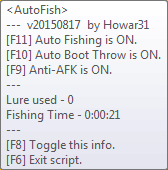
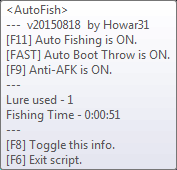
Fix backpack close on re-cast.  Update README.md to add changelog.  Update preview image.

diff --git a/README.md b/README.md
@@ -1,9 +1,35 @@
-> _[中文說明在文章後面](https://github.com/howar31/Trove-AHK-AutoFish#trove-ahk-autofish-1)_
+> **[中文說明請見後半段](https://github.com/howar31/Trove-AHK-AutoFish#trove-ahk-autofish-1)**
 
 # Trove-AHK-AutoFish
 This is an AutoHotKey script for auto fishing in Trove.
 
 ![previewimg](https://raw.githubusercontent.com/howar31/Trove-AHK-AutoFish/master/preview.png "Trove-AHK-AutoFish Preview Screenshot")
+
+## Changelog
+You may check the [commit history](https://github.com/howar31/Trove-AHK-AutoFish/commits/master) for full changelog on this GitHub repo.
+
+Here are the tags used below:
+* **[New]** The new feature added in the version.
+* **[Update]** Script optimization or minor change 感謝 ve the script but not changing the main function.
+* **[Fix]** Important fix for bugs that affect main function.  Highly recommand update to this version.
+
+### Latest Change
+**v20150818**
+* [New] Long press F10 for FastABT Mode.  _(Thanks to [KylinWu](https://github.com/KylinWu))_
+* [New] Configurable settings for FastABT long press delay (The default is to press 0.5s to active FastABT).  (FastABTDelay)
+* [New] Update Info Tooltip for FastABT Mode.
+
+### Recent Change
+**v20150817**
+> * [Update] Optimize ABT to lower the CPU usage.
+
+**v20150816**
+> * [Update] Optimize pole check.  _(Thanks to [KylinWu](https://github.com/KylinWu))_
+
+**v20150815**
+> * [Update] Optimize Tooltip refreshing.
+
+Older changelog please visit [commit history](https://github.com/howar31/Trove-AHK-AutoFish/commits/master).
 
 ## Feature
 * Using **Memory Address** to detect biting.
@@ -108,6 +134,7 @@ Here are the default hotkey settings:
 
 * **F11** - Toggle Auto Fish on or off
 * **F10** - Toggle Auto Boot Throw on or off
+ * **Hold F10** to activate Fast Auto Boot Throw which will temporarily throw boot at high speed.
 * **F9** - Toggle Anti-AFK on or off
 * **F8** - Toggle Info tooltips on or off
 * **F6** - Terminate and exit the whole script
@@ -121,7 +148,33 @@ All hotkeys info are also displayed in tooltip.
 
 ![previewimg](https://raw.githubusercontent.com/howar31/Trove-AHK-AutoFish/master/preview.png "Trove-AHK-AutoFish Preview Screenshot")
 
-## 特色
+## 更新紀錄
+請參考 GitHub repo 上的 [commit 紀錄](https://github.com/howar31/Trove-AHK-AutoFish/commits/master) 內有完整的更新紀錄。
+
+以下用到的標籤說明:
+* **[新增]** 版本中新增加的全新功能。
+* **[更新]** 腳本優化或是微幅調整，改進腳本整體效能但不影響主要功能。
+* **[修正]** 重要的功能修正，強烈建議更新到這個版本。
+
+### 最新更新
+**v20150818**
+* [新增] 長按 F10 啟動高速丟鞋模式。  _(感謝 [KylinWu](https://github.com/KylinWu))_
+* [新增] 可自訂的高速丟鞋長按延遲設定 (預設長按0.5秒啟動)。  (FastABTDelay)
+* [新增] 更新資訊浮動視窗的高速丟鞋相關訊息。
+
+### 近期更新
+**v20150817**
+> * [更新] 優化自動丟鞋以降低 CPU 使用率。
+
+**v20150816**
+> * [更新] 優化魚餌上鉤檢查機制。  _(感謝 [KylinWu](https://github.com/KylinWu))_
+
+**v20150815**
+> * [更新] 優化資訊浮動視窗更新機制。
+
+更舊的更新內容請參考 [commit 紀錄](https://github.com/howar31/Trove-AHK-AutoFish/commits/master)。
+
+## 功能特色
 * 使用 **記憶體位置** 偵測是否有魚上鉤
 > 使用記憶體偵測的方式非常精準，比圖片比對或聲音偵測的釣魚方式還要更好。
 
@@ -223,6 +276,7 @@ All hotkeys info are also displayed in tooltip.
 
 * **F11** - 切換自動釣魚開啟或關閉
 * **F10** - 切換自動丟鞋開啟或關閉
+ * **長按 F10** 可以啟動高速丟鞋模式，用於臨時手動快速丟鞋。
 * **F9** - 切換防斷線機制開啟或關閉
 * **F8** - 切換資訊浮動視窗顯示或隱藏
 * **F6** - 結束並完全關閉整個腳本
